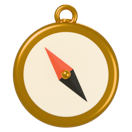
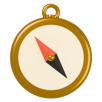
feat(profile): ring signals earned for 3D badges
Every 3D badge sits in the same outline ring: it fills with progress and
closes fully in brand green once earned. Earned art is full colour, locked
art a grey silhouette, both at ~34pt inside the 60pt ring. No disc fill.
Badges without art keep the original solid disc.

diff --git a/src/features/profile/components/milestone-medallion.tsx b/src/features/profile/components/milestone-medallion.tsx
@@ -22,9 +22,9 @@ const ART: Record<string, number> = {
   reviews_10: require("@/assets/icons3d/reviews_10.png"),
 };
 
-// A badge as a collectible object. Earned: the 3D art on its own. Locked: the
-// same shape as a flat silhouette inside a progress ring, so the user sees
-// what it is and how close they are — not a wall of padlocks.
+// A badge as a collectible object: its 3D art inside a progress ring. The ring
+// fills as the user gets closer and closes fully once earned; locked art is a
+// flat grey silhouette so they see what it is without it looking won.
 export function MilestoneMedallion({
   milestone,
   size = 60,
@@ -40,42 +40,32 @@ export function MilestoneMedallion({
   const circumference = 2 * Math.PI * radius;
   const ratio = progress.target > 0 ? progress.current / progress.target : 0;
   const iconSize = Math.round(size * 0.4);
-  // Without a disc the art fills most of the slot; inside the ring it's smaller.
-  const artSize = Math.round(size * 0.74);
-  const lockedArtSize = Math.round(size * 0.5);
+  const artSize = Math.round(size * 0.56);
 
   const art = ART[milestone.id];
-  if (earned) {
+  const newDot = showNewDot ? (
+    <View
+      accessibilityElementsHidden
+      className="absolute right-0 top-0 size-3.5 rounded-full border-2 border-background bg-favorite"
+    />
+  ) : null;
+  // Badges without 3D art keep the original solid disc when earned.
+  if (earned && !art) {
     return (
-      <View
-        className="items-center justify-center"
-        style={{ width: size, height: size }}
-      >
-        {art ? (
-          // 3D art stands on the page on its own — no disc, for contrast.
-          <Image
-            contentFit="contain"
-            source={art}
-            style={{ width: artSize, height: artSize }}
-          />
-        ) : (
-          <View
-            className="size-full items-center justify-center rounded-full bg-primary"
-            style={{ borderWidth: 2, borderColor: "rgba(255,255,255,0.18)" }}
-          >
-            <AppIcon color={colors.inverse} icon={icon} size={iconSize} />
-          </View>
-        )}
-        {showNewDot ? (
-          <View
-            className="absolute right-0 top-0 size-3.5 rounded-full border-2 border-background bg-favorite"
-            accessibilityElementsHidden
-          />
-        ) : null}
+      <View style={{ width: size, height: size }}>
+        <View
+          className="size-full items-center justify-center rounded-full bg-primary"
+          style={{ borderWidth: 2, borderColor: "rgba(255,255,255,0.18)" }}
+        >
+          <AppIcon color={colors.inverse} icon={icon} size={iconSize} />
+        </View>
+        {newDot}
       </View>
     );
   }
 
+  // The ring is the progress: a closed green ring means earned.
+  const fill = earned ? 1 : ratio;
   return (
     <View
       className="items-center justify-center"
@@ -94,7 +84,7 @@ export function MilestoneMedallion({
           stroke={colors.border}
           strokeWidth={RING_WIDTH}
         />
-        {ratio > 0 ? (
+        {fill > 0 ? (
           <Circle
             cx={size / 2}
             cy={size / 2}
@@ -102,23 +92,25 @@ export function MilestoneMedallion({
             r={radius}
             stroke={colors.primary}
             strokeDasharray={circumference}
-            strokeDashoffset={circumference * (1 - ratio)}
+            strokeDashoffset={circumference * (1 - fill)}
             strokeLinecap="round"
             strokeWidth={RING_WIDTH}
           />
         ) : null}
       </Svg>
       {art ? (
-        // Locked: the 3D shape as a flat silhouette — recognisable, not earned.
+        // Earned: full-colour 3D art. Locked: the same shape as a flat grey
+        // silhouette — recognisable, clearly not yet earned.
         <Image
           contentFit="contain"
           source={art}
-          style={{ width: lockedArtSize, height: lockedArtSize }}
-          tintColor={colors.subtle}
+          style={{ width: artSize, height: artSize }}
+          tintColor={earned ? undefined : colors.subtle}
         />
       ) : (
         <AppIcon color={colors.subtle} icon={icon} size={iconSize} />
       )}
+      {newDot}
     </View>
   );
 }
